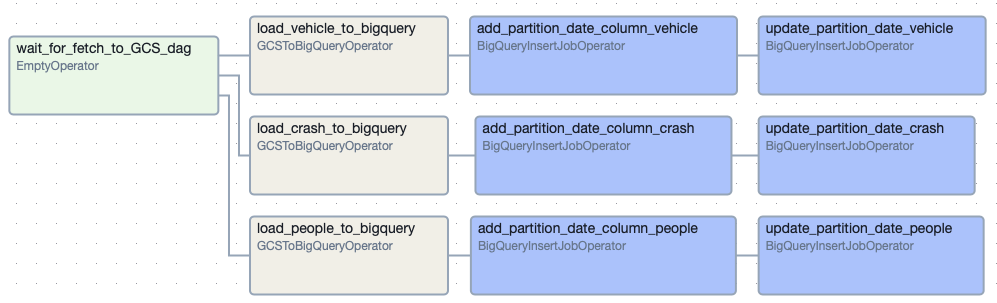
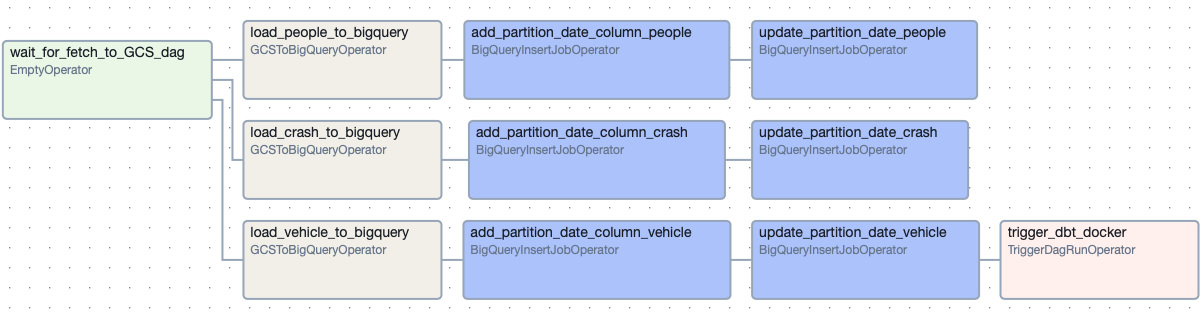
Readme update with docker dbt details

diff --git a/notes/todo.md b/notes/todo.md
@@ -4,21 +4,21 @@
 - deploy in the cloud and test daily/weekly runs.
 
 # 10/15/2024
-- Switching to Looker for BI. Easier integration with BigQuery and deployment in the cloud.
+- switching to looker for bi. easier integration with bigquery and deployment in the cloud.
 
 # 10/14/2024
-- Trying out Metabase as the BI tool.
-## Terraform
-- Testing getting service accounts for metabase in terraform.
-    - TODO: Use Terraform to get all infrastructure related resources.
-- NOTE: Creating service account key through terraform does not provide full JSON structure
+- trying out metabase as the bi tool.
+## terraform
+- testing getting service accounts for metabase in terraform.
+    - todo: use terraform to get all infrastructure related resources.
+- note: creating service account key through terraform does not provide full json structure
     - using manual service accoune key generation
 
 # 10/12/2024
 - check transaction numbers when running load dags tommorrow
-- bringing in the latest partition to staging layer and onwards. Raw layer will hold the appending table with all partitions.
+- bringing in the latest partition to staging layer and onwards. raw layer will hold the appending table with all partitions.
     - staging has the latest partition.
-- THOUGHT: Currently not using time dimension. Create hours of the day for hourly breakdown?
+- thought: currently not using time dimension. create hours of the day for hourly breakdown?
     - updated datetime dim to include hour column and is_rush_hour column.
 - updated location dimension to only geopoint (long, lat)
 
@@ -27,27 +27,27 @@
 - removing street information in location data and keeping to geography point information.
 - connect airflow and dbt
     - change partition date on dbt models to reflect source data
-- OR better approach, create date column during loading into BQ from airflow.
+- or better approach, create date column during loading into bq from airflow.
 
 # 10/06/2024
-- Will need to update source names to not be date dependent OR dynamically assign dates
+- will need to update source names to not be date dependent or dynamically assign dates
 
 # 10/05/2024
-- Fetched, processed, and loaded geojson data to BQ
+- fetched, processed, and loaded geojson data to bq
 - used custom python script to process geojson to ndjson
 - changed date to date of run "{{ ds_nodash}}"
-- TODO:
-    - transform neighborhood and ward to GEOGRAPHY
-    - Create dimensions
+- todo:
+    - transform neighborhood and ward to geography
+    - create dimensions
 
 # 10/02/2024
 - build airflow pipeline to bring in geography data
 - load and parse geojson data in bigquery.
 
-## General
+## general
 - move variables to env file
     - had issues with airflow recognizing it, fix later
-- break down DAGs to separate files / use Airflows `TaskGroup`
+- break down dags to separate files / use airflows `taskgroup`
 - remove code duplication
 
 ## Terraform

diff --git a/README.md b/README.md
@@ -55,6 +55,9 @@ For downstream transformations using dbt, only the **latest partition date** is 
 - **Loading Crash Data to Big Query** : Crash data is loaded from GCS to BigQuery, where a parition date column (signifying the load date) is added and the data appended to BQ tables.
 ![](images/crash_to_gcp.png)
 
+- **DBT Transformations** : DBT transformations are executed by spinning up a Docker container that contains the dbt project. The transformations are triggered using the DockerOperator within Apache Airflow, enabling seamless integration with the rest of the pipeline while maintaining visibility over the execution process.
+
+
 - **Geospatial Data Processing and Loading** : Geospatial data is processed by converting it from GeoJson to newline-delimited GeoJson format, making it suitable for upload to BigQuery. A partition date column is added, and the data appended to BQ tables.
 ![](images/geo_to_gcp.png)
 
